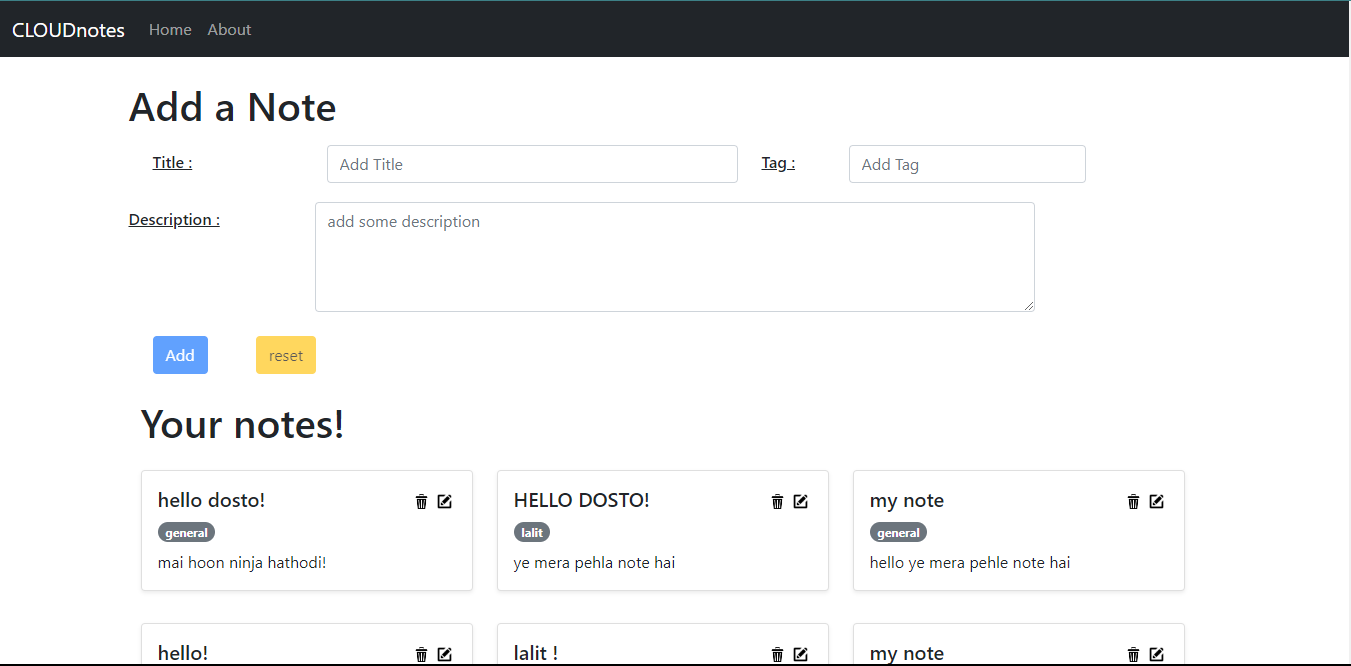
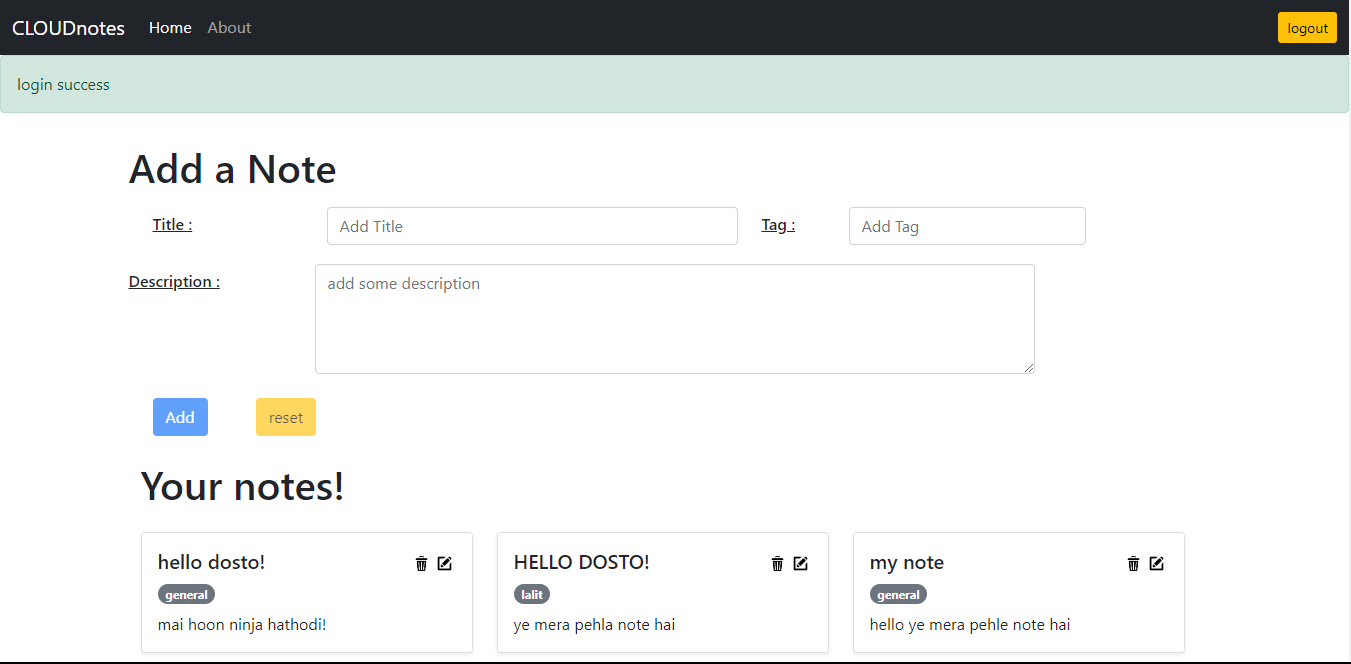
fixed some issues and added alerts

diff --git a/BackEnd/routes/auth.js b/BackEnd/routes/auth.js
@@ -37,7 +37,7 @@ router.post(
     // If some error occurs, then this
     // block of code will run
     if (!errors.isEmpty()) {
-      res.status(400).json({success,errors});
+      res.status(400).json({success,msg:errors.errors[0].msg});
       return;
     }
 
@@ -45,7 +45,7 @@ router.post(
       // checking weather email already exist or not
       let x = await User.findOne({ email: req.body.email });
       if (x) {
-        res.json({success:success,error:"email already registered"});
+        res.json({success:success,msg:"email already registered"});
         return;
       }
 
@@ -61,18 +61,19 @@ router.post(
         password: password,
         date: req.body.date,
       })
+      // let y=await user.json();
+
       
       let data={
-        user:{
-          id: user._id
-        }
+        id : user._id.valueOf()
       }
-      let token=await JWT.sign(data,JWT_SEC);
+      //token generation
+      let token=await JWT.sign({id: data.id},JWT_SEC);
       success=true;
       res.json({success,token});
 
     } catch (err) {
-      res.status(500).send({success,error:'server error'});
+      res.status(500).send({success,msg:'server error'});
       console.log(err);
     }
   }
@@ -94,7 +95,7 @@ router.post('/login', [
   // If some error occurs, then this
   // block of code will run
   if (!errors.isEmpty()) {
-    res.status(400).json({success,errors});
+    res.status(400).json({success , msg:errors.errors[0].msg});
     return;
   }
   try {
@@ -113,10 +114,10 @@ router.post('/login', [
       res.json({success,token});
     }
     else
-      res.status(400).json({success,error:"invalid credentials"});
+      res.status(400).json({success,msg:"invalid credentials"});
   } catch (error) {
     console.log(error)
-    return res.status(500).send({success,error:'server error'});
+    return res.status(500).send({success,msg:'server error'});
   }
 });
 

diff --git a/src/components/Login.js b/src/components/Login.js
@@ -4,8 +4,11 @@ import AuthContext from "../context/auth/AuthContext";
 
 const Login = (props) => {
 
-   // eslint-disable-next-line
-  useEffect(()=>{props.sett(false);},[])
+  useEffect(()=>{
+    props.sett(false);
+    document.title='CLOUDnotes-login'
+    // eslint-disable-next-line
+  },[])
   
   const history=useNavigate();
   const context = useContext(AuthContext)
@@ -19,16 +22,16 @@ const Login = (props) => {
     if(x===1){
       history('/home');
       props.sett(true);
+      props.salert({type:'success', msg:'login success'})
+    }else{
+      props.salert({type:'danger', msg: x});
     }
   }
 
   const form={backgroundColor:'#fffcadb8',maxWidth:"50%", position: "fixed", top: "25%", left: "25%", border:"solid black 2px",borderRadius: '10px'};
   return (
-    <div>
-      <div style={{ filter: "blur(3px)", position: "fixed" }}>
-        {" "}
-        <img src="blurr.png" alt="hii" />{" "}
-      </div>
+    <>
+        <img src="blurr.png"style={{ filter: "blur(3px)" }} alt="hii" />
         <form onSubmit={submit} className="container p-3" style={form}>
           <center><h2>CLOUDnotes</h2></center>
           <h4 className="my-3">Login to continue</h4>
@@ -51,10 +54,10 @@ const Login = (props) => {
           <button type="submit" className="btn btn-primary"style={{margin:'5px'}}>
             login
           </button>
-          <button className="btn btn-warning"onClick={()=>{history('/signup')}}>signup</button>
+          <button type="reset" className="btn btn-warning"onClick={()=>{history('/signup')}}>signup</button>
         </form>
         
-      </div>
+      </>
   );
 };
 

diff --git a/src/components/Signup.js b/src/components/Signup.js
@@ -3,8 +3,11 @@ import {useNavigate} from "react-router-dom";
 import AuthContext from "../context/auth/AuthContext";
 
 const Signup = (props)=>{
+  useEffect(()=>{
+    props.sett(false);
+    document.title='CLOUDnotes-signup'
     // eslint-disable-next-line
-    useEffect(()=>{props.sett(false);},[])
+    },[])
     
     const history=useNavigate();
     const context = useContext(AuthContext)
@@ -15,12 +18,13 @@ const Signup = (props)=>{
       let name=document.getElementById('name').value;
       let password=document.getElementById('inputPassword').value
       let x=await context.userSignup(name,email,password);
-      setTimeout(() => {
-        if(x===1){
-            props.sett(true);
-            history('/home');
-        }
-      }, 2000);
+      if(x===1){
+        history('/home');
+        props.sett(true);
+        props.salert({type:'success', msg:'signup success'})
+      }else{
+        props.salert({type:'danger', msg: x});
+      }
     }   
     const form={backgroundColor:'#fffcadb8',maxWidth:"50%", position: "fixed", top: "25%", left: "25%", border:"solid black 2px",borderRadius: '10px'};
     return (
@@ -64,7 +68,7 @@ const Signup = (props)=>{
             <button type="submit" className="btn btn-primary"style={{margin:'5px'}}>
               signup
             </button>
-            <button className="btn btn-warning"onClick={()=>{history('/')}}>login</button>
+            <button className="btn btn-warning" type="reset" onClick={()=>{history('/')}}>login</button>
           </form>
 
         </div>

diff --git a/src/App.js b/src/App.js
@@ -5,23 +5,33 @@ import About from "./components/About";
 import Home from "./components/Home";
 import NoteState from "./context/notes/NoteState";
 import Login from "./components/Login";
+import Alert from "./components/Alert";
 import { useState } from "react";
 import Signup from "./components/Signup";
 
 function App() {
+  
+  const [alert, setAlert] = useState({type:'',msg:''});
   const [logedin, setLogedin] = useState(true);
+  if(alert.type.length>0){
+    setTimeout(() => {
+      setAlert({type:'',msg:''});
+    }, 1000);
+  }
   return (
     <>
       <NoteState>
         <Router>
-          {logedin && <Navbar sett={setLogedin}/>}
-
+          {logedin && <Navbar sett={setLogedin} salert={setAlert}/>}
           <Routes>
-            <Route path="/" element={<Login sett={setLogedin} />} />
-            <Route path="/home" element={<Home />} />
-            <Route path="/signup" element={<Signup sett={setLogedin} />} />
-            <Route path="/about" element={<About />} />
+            <Route path="/" element={<Login sett={setLogedin} salert={setAlert} />} />
+            <Route path="/home" element={<Home salert={setAlert}/>} />
+            <Route path="/signup" element={<Signup sett={setLogedin} salert={setAlert}/>} />
+            <Route path="/about" element={<About salert={setAlert}/>} />
           </Routes>
+          <div style={{position:"absolute",top: '0',left:' 0'}}>
+            <Alert type={alert.type} msg={alert.msg}/>
+          </div>
         </Router>
       </NoteState>
     </>

diff --git a/src/components/Noteitem.js b/src/components/Noteitem.js
@@ -4,6 +4,10 @@ import UpdateModal from "./UpdateModal";
 const Noteitem = (props) => {
   let {noteId, id, title, tag, description, deleteNote} = props;
   let data={noteId, id, title, description, tag};
+  const deleten=()=>{
+    deleteNote(noteId);  
+    props.salert({type:'success', msg:'note deleted successfully'});
+  }
   // console.log(data)
     return (
       <div
@@ -20,8 +24,8 @@ const Noteitem = (props) => {
         <div style={{ display: "flex", justifyContent: "space-between" }}>
           <h5 className="card-title">{title}</h5>
           <div>
-            <img height={"15px"} className="mx-1" src="delete.png" title="delete note" alt="delete" style={{cursor: "pointer"}} onClick={()=>{deleteNote(noteId)}}/>
-            <UpdateModal note={data}/>
+            <img height={"15px"} className="mx-1" src="delete.png" title="delete note" alt="delete" style={{cursor: "pointer"}} onClick={deleten}/>
+            <UpdateModal note={data} salert={props.salert}/>
           </div>
         </div>
         <span className="card-subtitle mb-2 badge rounded-pill bg-secondary">

diff --git a/src/components/Notes.js b/src/components/Notes.js
@@ -3,7 +3,7 @@ import NoteContext from "../context/notes/NoteContext";
 import Noteitem from "./Noteitem";
 
 // function to display existing notes
-const Notes = () => {
+const Notes = (props) => {
   let id = 0;
   const context = useContext(NoteContext);
   const { note, deleteNote } = context;
@@ -12,13 +12,13 @@ const Notes = () => {
     <div className="container row my-4">
       <h1>Your notes!</h1>
       {/* creating notes element  */}
-      {note.map((element) => {
+      {note.length>0 ? note.map((element) => {
         return (
           <div className="col-md-4 my-3" key={element._id}>
-            <Noteitem id={id++} noteId={element._id} title={element.title} description={element.description} tag={element.tag} deleteNote={deleteNote}/>
+            <Noteitem id={id++} salert={props.salert} noteId={element._id} title={element.title} description={element.description} tag={element.tag} deleteNote={deleteNote}/>
           </div>
         );
-      })}
+      }) : <h6>No notes to display</h6> }
     </div>
   );
 };

diff --git a/src/context/notes/NoteState.js b/src/context/notes/NoteState.js
@@ -147,8 +147,8 @@ const NoteState = (props) => {
       localStorage.setItem('token',res.token)
       return 1;
     }else{
-      alert(res.error);
-      return 0;
+      // alert(res.msg);
+      return (res.msg);
     }
   }
 
@@ -156,7 +156,6 @@ const NoteState = (props) => {
   const userSignup= async(name,email,password)=>{
 
     let data={name:name, email:email, password:password};
- console.log(data);
     // making api call 
     let response = await fetch(url+'/auth/signup',{
       method: 'POST',
@@ -173,13 +172,12 @@ const NoteState = (props) => {
       localStorage.setItem('token',res.token)
       return 1;
     }else{
-      alert(res.error);
-      return 0;
+      return (res.msg);
     }
   }
 
   return (
-    <NoteContext.Provider value={{ note, updateNote, addNote, deleteNote, fetchNote}}>
+    <NoteContext.Provider value={{note, updateNote, addNote, deleteNote, fetchNote}}>
       <AuthContext.Provider value={{userSignup,userLogin}}>
         {props.children}
       </AuthContext.Provider>

diff --git a/src/components/AddNote.js b/src/components/AddNote.js
@@ -1,7 +1,7 @@
 import React, { useContext, useState } from "react";
 import NoteContext from "../context/notes/NoteContext";
 // component to add new notes
-const AddNote = () => {
+const AddNote = (props) => {
   const context = useContext(NoteContext);
   const { addNote } = context;
   const [state, setState] = useState({ title: "", description: "", tag: "" });
@@ -11,7 +11,8 @@ const AddNote = () => {
   };
 
   const add = () => {
-    addNote(state.title, state.description, state.tag);
+    addNote(state.title, state.description, state.tag); 
+    props.salert({type:'success', msg:'note added'});
     setState({ title: "", description: "", tag: "" });
     document.getElementById('title').value="";
     document.getElementById('description').value="";

diff --git a/src/components/Home.js b/src/components/Home.js
@@ -4,7 +4,7 @@ import Notes from "./Notes";
 import Resubmisson from "./Resubmisson";
 import noteContext from "../context/notes/NoteContext";
 
-const Home = () => {
+const Home = (props) => {
   let context=useContext(noteContext);
   let [item,setItem] = useState();
   
@@ -12,13 +12,14 @@ const Home = () => {
   const fetch = async() =>{
     let res=await fetchNote();
     if(res){
-      setItem([<AddNote key='2'/>,<Notes key='1'/>])
+      setItem([<AddNote key='2' salert={props.salert}/>,<Notes key='1' salert={props.salert}/>])
     }else{
       setItem(<Resubmisson/>)
     }
   }
 
   useEffect(()=>{
+    document.title='CLOUDnotes-home'
     fetch();
     //eslint-disable-next-line
   },[])

diff --git a/src/components/UpdateModal.js b/src/components/UpdateModal.js
@@ -120,7 +120,7 @@ const UpdateModal = (props) => {
               <button
                 type="button"
                 className="btn btn-primary"
-                onClick={()=>{updateNote(noteId, state.etitle, state.edescription, state.etag)}}
+                onClick={()=>{updateNote(noteId, state.etitle, state.edescription, state.etag); props.salert({type:'success', msg:'note updated succesfully'});}}
                 data-bs-dismiss="modal"
               >
                 Save changes

diff --git a/src/components/Alert.js b/src/components/Alert.js
@@ -1,0 +1,9 @@
+import React from 'react'
+
+export default function Alert(props) {
+  return (
+    props.msg && <div className={`alert alert-${props.type} alert-dismissible fade show`} role="alert">
+      {props.msg}
+    </div>
+  )
+}

diff --git a/src/components/Navbar.js b/src/components/Navbar.js
@@ -6,6 +6,7 @@ function Navbar(props) {
   // const na= useNavigation();
   const logout = ()=>{
     localStorage.removeItem('token');
+    props.salert({type:'success', msg:'logged out'});
     props.sett(false);
   };
   return (
